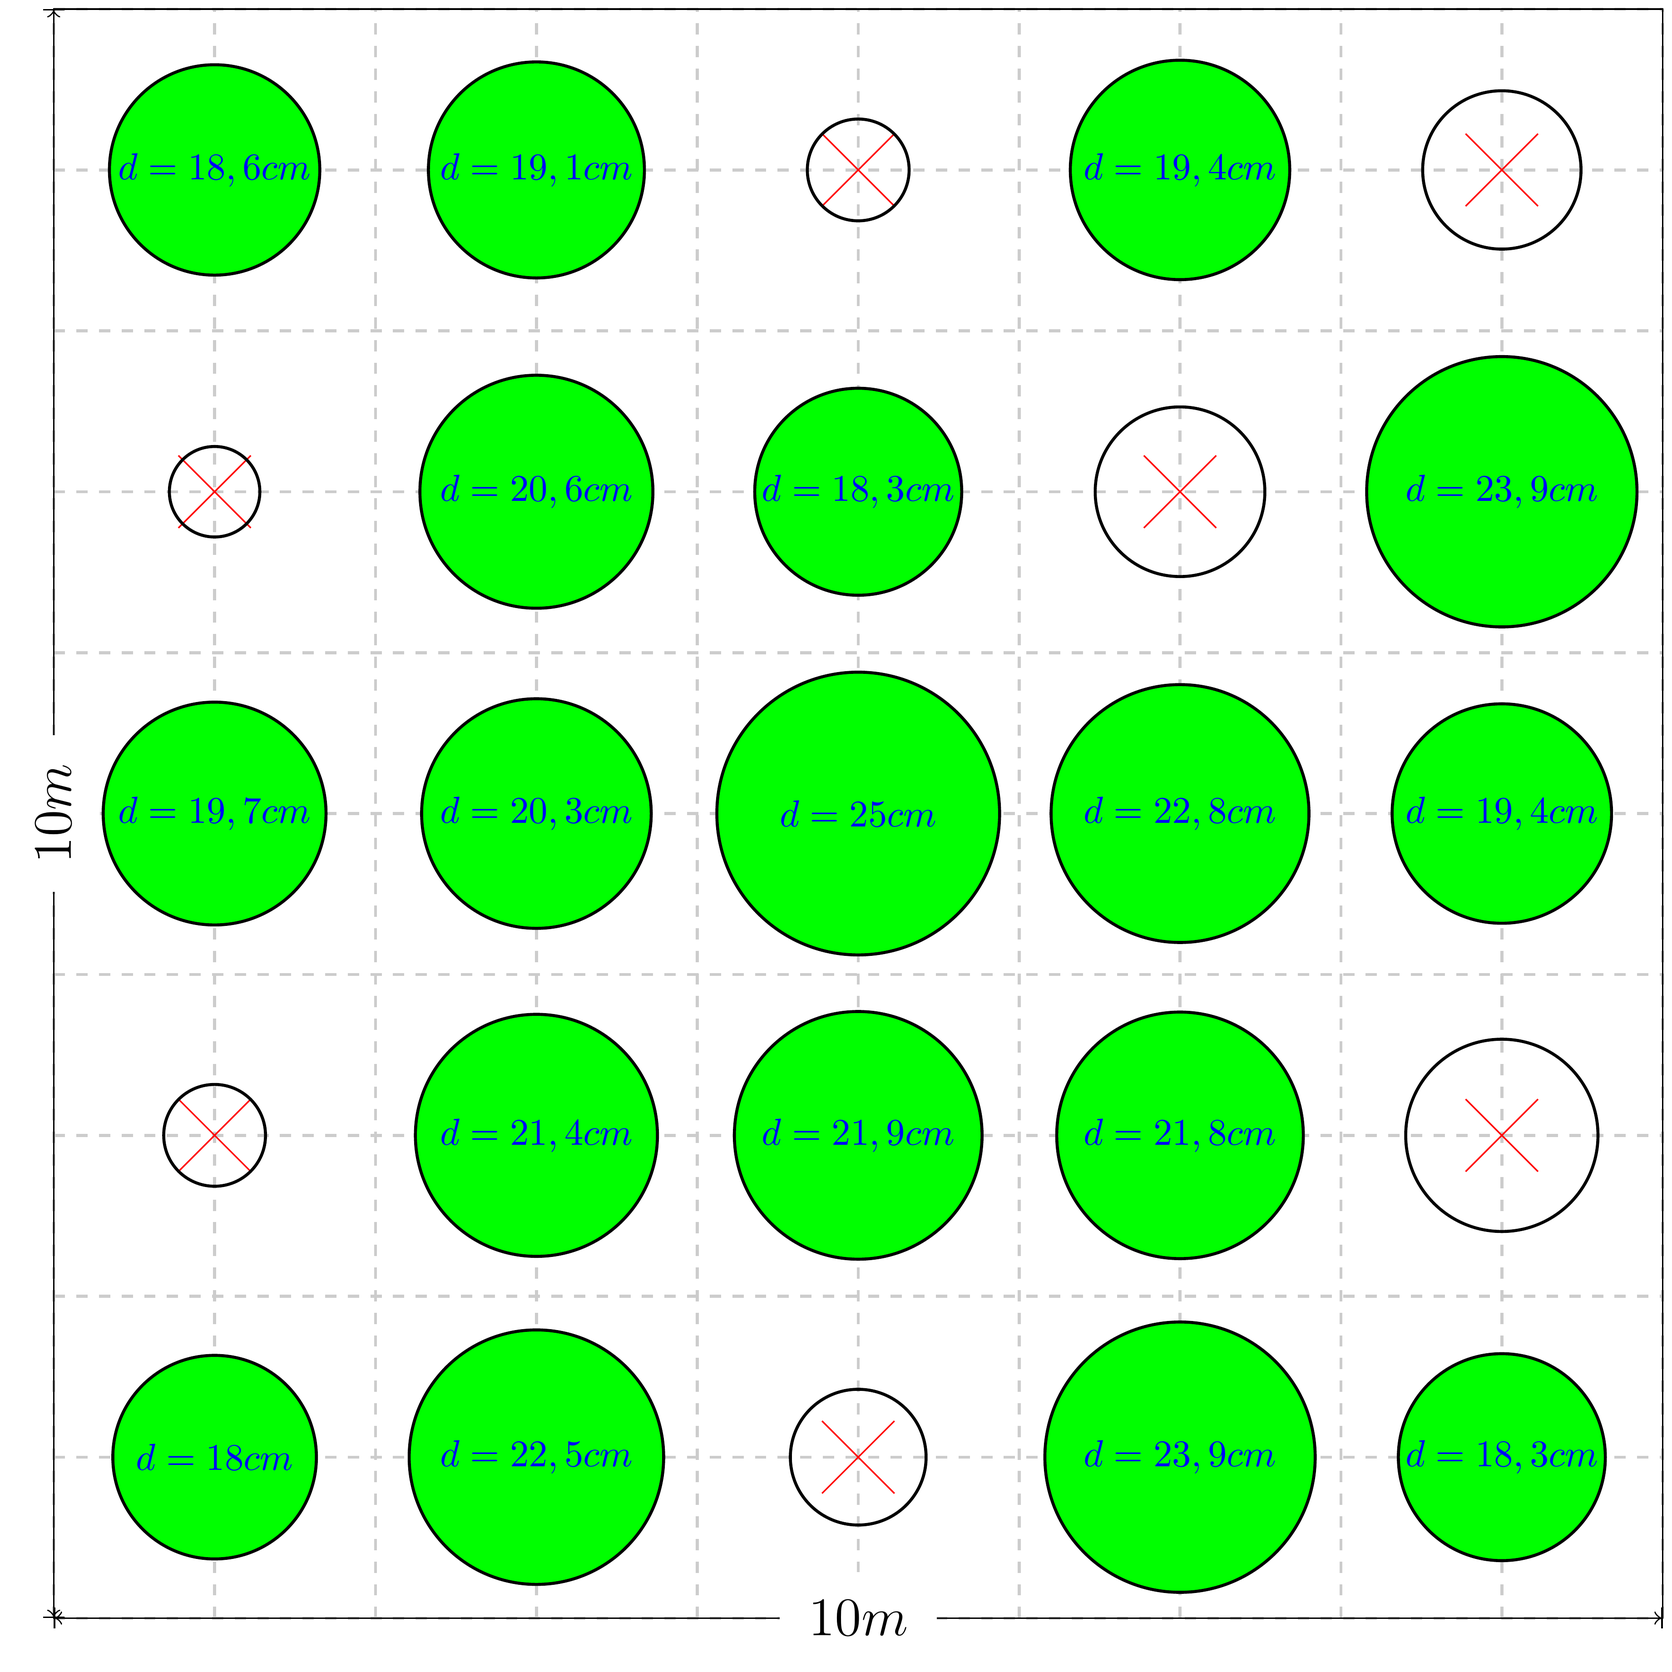
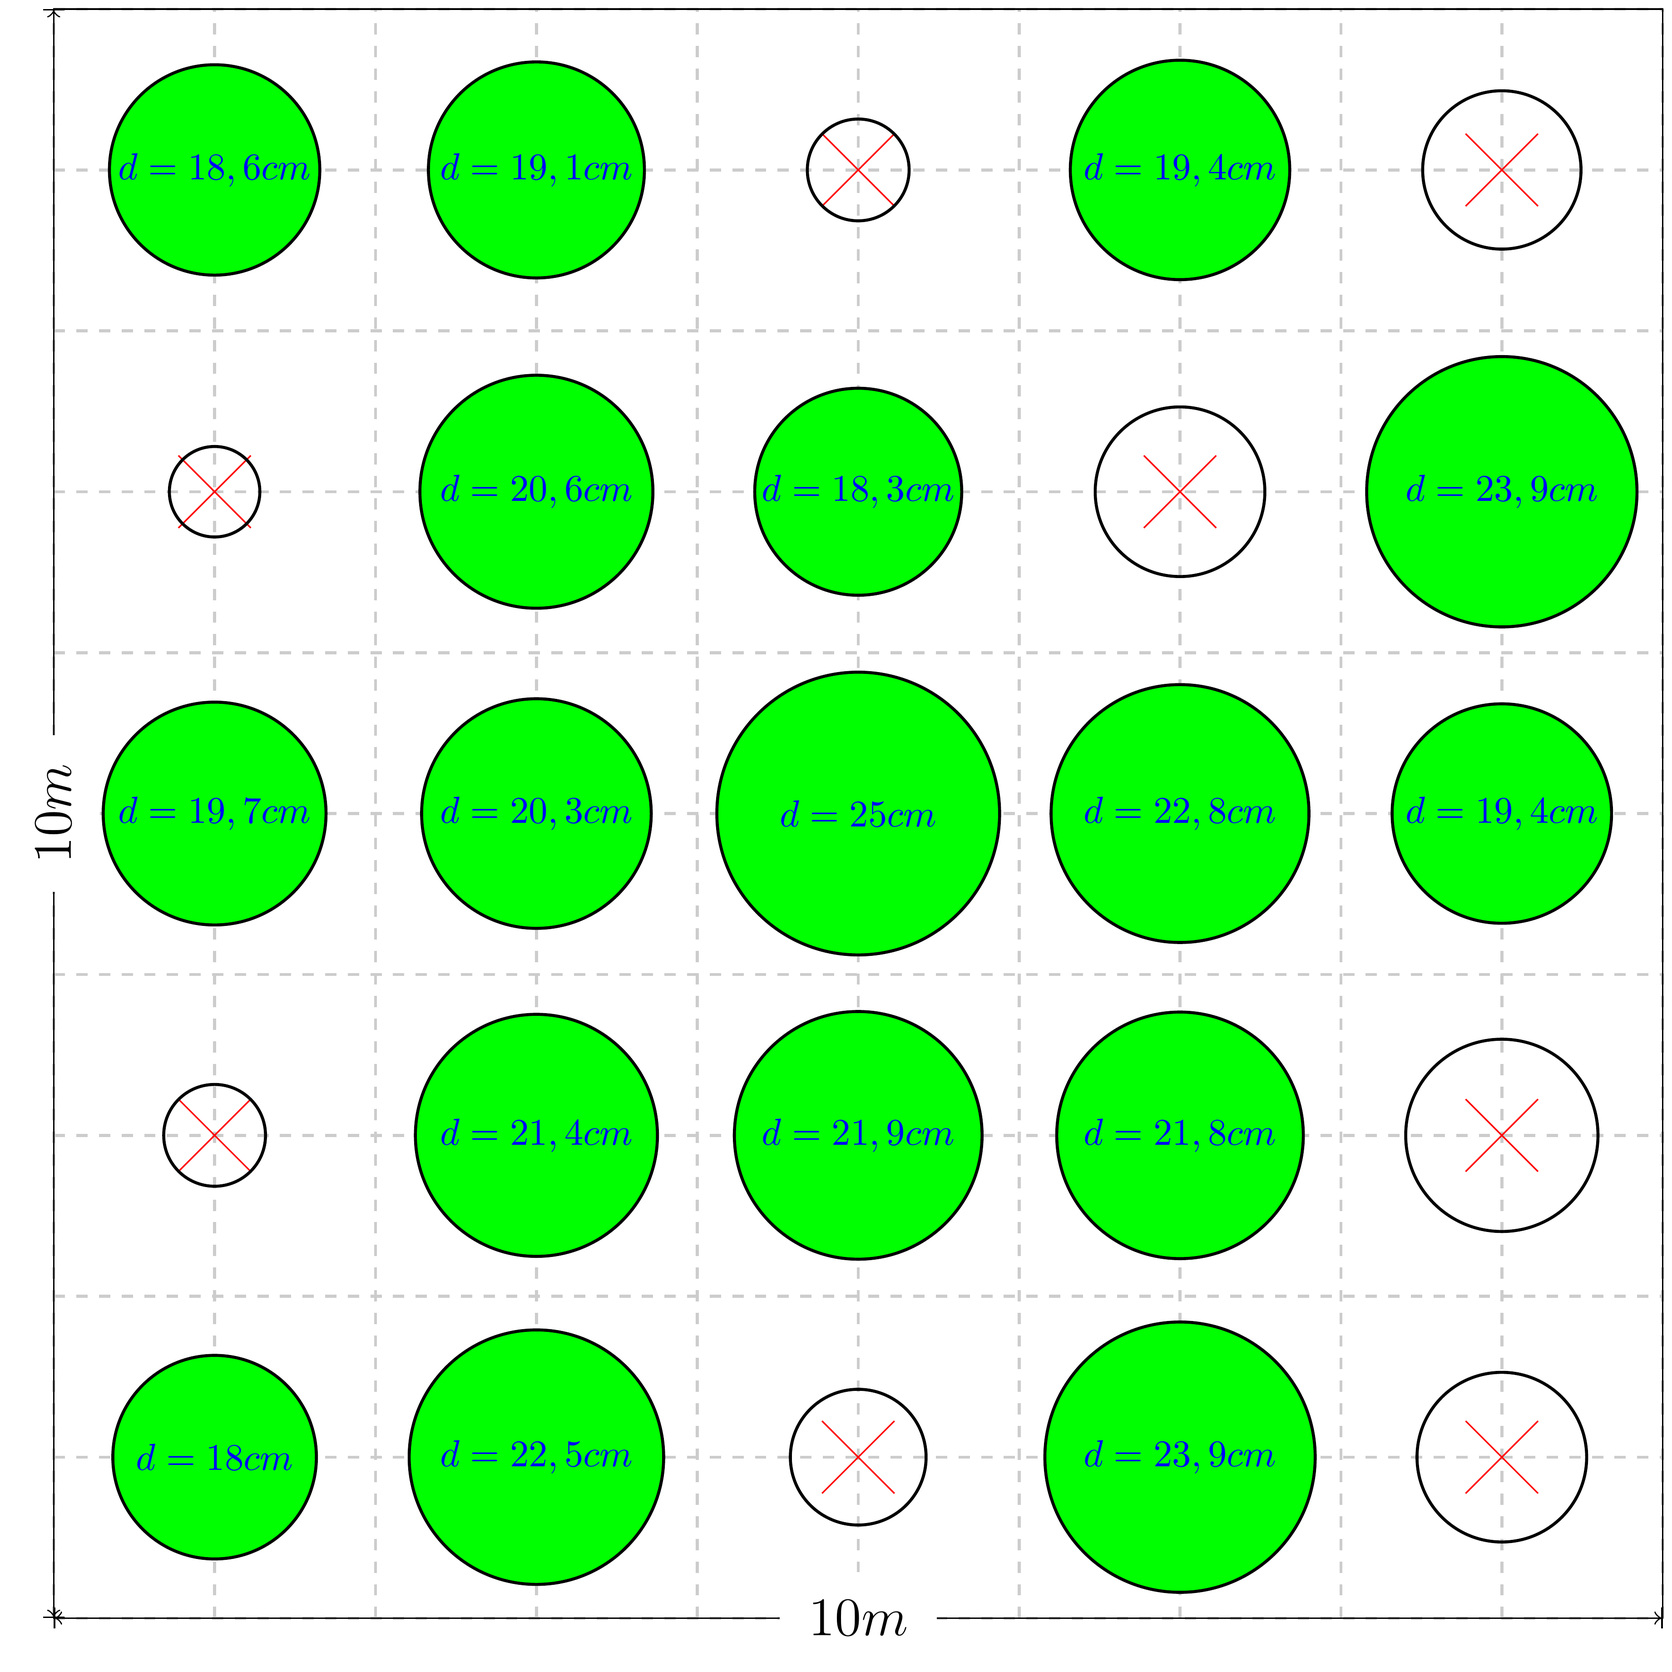
Update class 2

Changed region(s): [[0.8121, 0.8121, 0.9682, 0.937]]

diff --git a/Slides/Aula2-Diametro.html b/Slides/Aula2-Diametro.html
@@ -362,8 +362,8 @@ $$
 --
 
 .pull-left-2[
-<div id="htmlwidget-a53307848ddb515cdd6b" style="width:600px;height:360px;" class="plotly html-widget"></div>
-<script type="application/json" data-for="htmlwidget-a53307848ddb515cdd6b">{"x":{"data":[{"orientation":"v","width":[10,10,10,10,10,10,10,10,10],"base":[0,0,0,0,0,0,0,0,0],"x":[35,45,55,65,75,85,95,105,115],"y":[37,947,924,420,202,59,20,6,2],"text":["Count: 37<br />Lower: 30<br />Mids: 35<br />Upper: 40","Count: 947<br />Lower: 40<br />Mids: 45<br />Upper: 50","Count: 924<br />Lower: 50<br />Mids: 55<br />Upper: 60","Count: 420<br />Lower: 60<br />Mids: 65<br />Upper: 70","Count: 202<br />Lower: 70<br />Mids: 75<br />Upper: 80","Count: 59<br />Lower: 80<br />Mids: 85<br />Upper: 90","Count: 20<br />Lower: 90<br />Mids: 95<br />Upper: 100","Count: 6<br />Lower: 100<br />Mids: 105<br />Upper: 110","Count: 2<br />Lower: 110<br />Mids: 115<br />Upper: 120"],"type":"bar","marker":{"autocolorscale":false,"color":"rgba(0,255,0,0.2)","line":{"width":1.88976377952756,"color":"rgba(255,0,0,1)"}},"showlegend":false,"xaxis":"x","yaxis":"y","hoverinfo":"text","frame":null},{"text":["Count: 37<br />Lower: 30<br />Mids: 35<br />Upper: 40","Count: 947<br />Lower: 40<br />Mids: 45<br />Upper: 50","Count: 924<br />Lower: 50<br />Mids: 55<br />Upper: 60","Count: 420<br />Lower: 60<br />Mids: 65<br />Upper: 70","Count: 202<br />Lower: 70<br />Mids: 75<br />Upper: 80","Count: 59<br />Lower: 80<br />Mids: 85<br />Upper: 90","Count: 20<br />Lower: 90<br />Mids: 95<br />Upper: 100","Count: 6<br />Lower: 100<br />Mids: 105<br />Upper: 110","Count: 2<br />Lower: 110<br />Mids: 115<br />Upper: 120"],"hoverinfo":"text","xaxis":"x","yaxis":"y","frame":null},{"text":["Count: 37<br />Lower: 30<br />Mids: 35<br />Upper: 40","Count: 947<br />Lower: 40<br />Mids: 45<br />Upper: 50","Count: 924<br />Lower: 50<br />Mids: 55<br />Upper: 60","Count: 420<br />Lower: 60<br />Mids: 65<br />Upper: 70","Count: 202<br />Lower: 70<br />Mids: 75<br />Upper: 80","Count: 59<br />Lower: 80<br />Mids: 85<br />Upper: 90","Count: 20<br />Lower: 90<br />Mids: 95<br />Upper: 100","Count: 6<br />Lower: 100<br />Mids: 105<br />Upper: 110","Count: 2<br />Lower: 110<br />Mids: 115<br />Upper: 120"],"hoverinfo":"text","xaxis":"x","yaxis":"y","frame":null},{"text":["Count: 37<br />Lower: 30<br />Mids: 35<br />Upper: 40","Count: 947<br />Lower: 40<br />Mids: 45<br />Upper: 50","Count: 924<br />Lower: 50<br />Mids: 55<br />Upper: 60","Count: 420<br />Lower: 60<br />Mids: 65<br />Upper: 70","Count: 202<br />Lower: 70<br />Mids: 75<br />Upper: 80","Count: 59<br />Lower: 80<br />Mids: 85<br />Upper: 90","Count: 20<br />Lower: 90<br />Mids: 95<br />Upper: 100","Count: 6<br />Lower: 100<br />Mids: 105<br />Upper: 110","Count: 2<br />Lower: 110<br />Mids: 115<br />Upper: 120"],"hoverinfo":"text","xaxis":"x","yaxis":"y","frame":null}],"layout":{"margin":{"t":45.7108066971081,"r":7.30593607305936,"b":42.130898021309,"l":48.9497716894977},"plot_bgcolor":"rgba(255,255,255,1)","paper_bgcolor":"rgba(255,255,255,1)","font":{"color":"rgba(0,0,0,1)","family":"","size":14.6118721461187},"title":{"text":"Distribuição Diamétrica <br />(Vouacapoua americana Aubl.)","font":{"color":"rgba(0,0,0,1)","family":"","size":17.5342465753425},"x":0,"xref":"paper"},"xaxis":{"domain":[0,1],"automargin":true,"type":"linear","autorange":false,"range":[25.5,124.5],"tickmode":"array","ticktext":["30","40","50","60","70","80","90","100","110","120"],"tickvals":[30,40,50,60,70,80,90,100,110,120],"categoryorder":"array","categoryarray":["30","40","50","60","70","80","90","100","110","120"],"nticks":null,"ticks":"outside","tickcolor":"rgba(51,51,51,1)","ticklen":3.65296803652968,"tickwidth":0.66417600664176,"showticklabels":true,"tickfont":{"color":"rgba(77,77,77,1)","family":"","size":11.689497716895},"tickangle":-0,"showline":false,"linecolor":null,"linewidth":0,"showgrid":true,"gridcolor":"rgba(235,235,235,1)","gridwidth":0.66417600664176,"zeroline":false,"anchor":"y","title":{"text":"Classes de Diâmetro","font":{"color":"rgba(0,0,0,1)","family":"","size":14.6118721461187}},"hoverformat":".2f"},"yaxis":{"domain":[0,1],"automargin":true,"type":"linear","autorange":false,"range":[-50,1050],"tickmode":"array","ticktext":["0","100","200","300","400","500","600","700","800","900","1000"],"tickvals":[0,100,200,300,400,500,600,700,800,900,1000],"categoryorder":"array","categoryarray":["0","100","200","300","400","500","600","700","800","900","1000"],"nticks":null,"ticks":"outside","tickcolor":"rgba(51,51,51,1)","ticklen":3.65296803652968,"tickwidth":0.66417600664176,"showticklabels":true,"tickfont":{"color":"rgba(77,77,77,1)","family":"","size":11.689497716895},"tickangle":-0,"showline":false,"linecolor":null,"linewidth":0,"showgrid":true,"gridcolor":"rgba(235,235,235,1)","gridwidth":0.66417600664176,"zeroline":false,"anchor":"x","title":{"text":"Número de Indivíduos","font":{"color":"rgba(0,0,0,1)","family":"","size":14.6118721461187}},"hoverformat":".2f"},"shapes":[{"type":"rect","fillcolor":"transparent","line":{"color":"rgba(0,0,0,1)","width":0.66417600664176,"linetype":"solid"},"yref":"paper","xref":"paper","x0":0,"x1":1,"y0":0,"y1":1}],"showlegend":false,"legend":{"bgcolor":"rgba(255,255,255,1)","bordercolor":"transparent","borderwidth":1.88976377952756,"font":{"color":"rgba(0,0,0,1)","family":"","size":11.689497716895}},"hovermode":"closest","barmode":"relative"},"config":{"doubleClick":"reset","showSendToCloud":false},"source":"A","attrs":{"60813d508f9f":{"x":{},"type":"bar"}},"cur_data":"60813d508f9f","visdat":{"60813d508f9f":["function (y) ","x"]},"highlight":{"on":"plotly_click","persistent":false,"dynamic":false,"selectize":false,"opacityDim":0.2,"selected":{"opacity":1},"debounce":0},"shinyEvents":["plotly_hover","plotly_click","plotly_selected","plotly_relayout","plotly_brushed","plotly_brushing","plotly_clickannotation","plotly_doubleclick","plotly_deselect","plotly_afterplot","plotly_sunburstclick"],"base_url":"https://plot.ly"},"evals":[],"jsHooks":[]}</script>
+<div id="htmlwidget-fc676dc1031a047a59b0" style="width:600px;height:360px;" class="plotly html-widget"></div>
+<script type="application/json" data-for="htmlwidget-fc676dc1031a047a59b0">{"x":{"data":[{"orientation":"v","width":[10,10,10,10,10,10,10,10,10],"base":[0,0,0,0,0,0,0,0,0],"x":[35,45,55,65,75,85,95,105,115],"y":[37,947,924,420,202,59,20,6,2],"text":["Count: 37<br />Lower: 30<br />Mids: 35<br />Upper: 40","Count: 947<br />Lower: 40<br />Mids: 45<br />Upper: 50","Count: 924<br />Lower: 50<br />Mids: 55<br />Upper: 60","Count: 420<br />Lower: 60<br />Mids: 65<br />Upper: 70","Count: 202<br />Lower: 70<br />Mids: 75<br />Upper: 80","Count: 59<br />Lower: 80<br />Mids: 85<br />Upper: 90","Count: 20<br />Lower: 90<br />Mids: 95<br />Upper: 100","Count: 6<br />Lower: 100<br />Mids: 105<br />Upper: 110","Count: 2<br />Lower: 110<br />Mids: 115<br />Upper: 120"],"type":"bar","marker":{"autocolorscale":false,"color":"rgba(0,255,0,0.2)","line":{"width":1.88976377952756,"color":"rgba(255,0,0,1)"}},"showlegend":false,"xaxis":"x","yaxis":"y","hoverinfo":"text","frame":null},{"text":["Count: 37<br />Lower: 30<br />Mids: 35<br />Upper: 40","Count: 947<br />Lower: 40<br />Mids: 45<br />Upper: 50","Count: 924<br />Lower: 50<br />Mids: 55<br />Upper: 60","Count: 420<br />Lower: 60<br />Mids: 65<br />Upper: 70","Count: 202<br />Lower: 70<br />Mids: 75<br />Upper: 80","Count: 59<br />Lower: 80<br />Mids: 85<br />Upper: 90","Count: 20<br />Lower: 90<br />Mids: 95<br />Upper: 100","Count: 6<br />Lower: 100<br />Mids: 105<br />Upper: 110","Count: 2<br />Lower: 110<br />Mids: 115<br />Upper: 120"],"hoverinfo":"text","xaxis":"x","yaxis":"y","frame":null},{"text":["Count: 37<br />Lower: 30<br />Mids: 35<br />Upper: 40","Count: 947<br />Lower: 40<br />Mids: 45<br />Upper: 50","Count: 924<br />Lower: 50<br />Mids: 55<br />Upper: 60","Count: 420<br />Lower: 60<br />Mids: 65<br />Upper: 70","Count: 202<br />Lower: 70<br />Mids: 75<br />Upper: 80","Count: 59<br />Lower: 80<br />Mids: 85<br />Upper: 90","Count: 20<br />Lower: 90<br />Mids: 95<br />Upper: 100","Count: 6<br />Lower: 100<br />Mids: 105<br />Upper: 110","Count: 2<br />Lower: 110<br />Mids: 115<br />Upper: 120"],"hoverinfo":"text","xaxis":"x","yaxis":"y","frame":null},{"text":["Count: 37<br />Lower: 30<br />Mids: 35<br />Upper: 40","Count: 947<br />Lower: 40<br />Mids: 45<br />Upper: 50","Count: 924<br />Lower: 50<br />Mids: 55<br />Upper: 60","Count: 420<br />Lower: 60<br />Mids: 65<br />Upper: 70","Count: 202<br />Lower: 70<br />Mids: 75<br />Upper: 80","Count: 59<br />Lower: 80<br />Mids: 85<br />Upper: 90","Count: 20<br />Lower: 90<br />Mids: 95<br />Upper: 100","Count: 6<br />Lower: 100<br />Mids: 105<br />Upper: 110","Count: 2<br />Lower: 110<br />Mids: 115<br />Upper: 120"],"hoverinfo":"text","xaxis":"x","yaxis":"y","frame":null}],"layout":{"margin":{"t":45.7108066971081,"r":7.30593607305936,"b":42.130898021309,"l":48.9497716894977},"plot_bgcolor":"rgba(255,255,255,1)","paper_bgcolor":"rgba(255,255,255,1)","font":{"color":"rgba(0,0,0,1)","family":"","size":14.6118721461187},"title":{"text":"Distribuição Diamétrica <br />(Vouacapoua americana Aubl.)","font":{"color":"rgba(0,0,0,1)","family":"","size":17.5342465753425},"x":0,"xref":"paper"},"xaxis":{"domain":[0,1],"automargin":true,"type":"linear","autorange":false,"range":[25.5,124.5],"tickmode":"array","ticktext":["30","40","50","60","70","80","90","100","110","120"],"tickvals":[30,40,50,60,70,80,90,100,110,120],"categoryorder":"array","categoryarray":["30","40","50","60","70","80","90","100","110","120"],"nticks":null,"ticks":"outside","tickcolor":"rgba(51,51,51,1)","ticklen":3.65296803652968,"tickwidth":0.66417600664176,"showticklabels":true,"tickfont":{"color":"rgba(77,77,77,1)","family":"","size":11.689497716895},"tickangle":-0,"showline":false,"linecolor":null,"linewidth":0,"showgrid":true,"gridcolor":"rgba(235,235,235,1)","gridwidth":0.66417600664176,"zeroline":false,"anchor":"y","title":{"text":"Classes de Diâmetro","font":{"color":"rgba(0,0,0,1)","family":"","size":14.6118721461187}},"hoverformat":".2f"},"yaxis":{"domain":[0,1],"automargin":true,"type":"linear","autorange":false,"range":[-50,1050],"tickmode":"array","ticktext":["0","100","200","300","400","500","600","700","800","900","1000"],"tickvals":[0,100,200,300,400,500,600,700,800,900,1000],"categoryorder":"array","categoryarray":["0","100","200","300","400","500","600","700","800","900","1000"],"nticks":null,"ticks":"outside","tickcolor":"rgba(51,51,51,1)","ticklen":3.65296803652968,"tickwidth":0.66417600664176,"showticklabels":true,"tickfont":{"color":"rgba(77,77,77,1)","family":"","size":11.689497716895},"tickangle":-0,"showline":false,"linecolor":null,"linewidth":0,"showgrid":true,"gridcolor":"rgba(235,235,235,1)","gridwidth":0.66417600664176,"zeroline":false,"anchor":"x","title":{"text":"Número de Indivíduos","font":{"color":"rgba(0,0,0,1)","family":"","size":14.6118721461187}},"hoverformat":".2f"},"shapes":[{"type":"rect","fillcolor":"transparent","line":{"color":"rgba(0,0,0,1)","width":0.66417600664176,"linetype":"solid"},"yref":"paper","xref":"paper","x0":0,"x1":1,"y0":0,"y1":1}],"showlegend":false,"legend":{"bgcolor":"rgba(255,255,255,1)","bordercolor":"transparent","borderwidth":1.88976377952756,"font":{"color":"rgba(0,0,0,1)","family":"","size":11.689497716895}},"hovermode":"closest","barmode":"relative"},"config":{"doubleClick":"reset","showSendToCloud":false},"source":"A","attrs":{"12ad4236f0c2":{"x":{},"type":"bar"}},"cur_data":"12ad4236f0c2","visdat":{"12ad4236f0c2":["function (y) ","x"]},"highlight":{"on":"plotly_click","persistent":false,"dynamic":false,"selectize":false,"opacityDim":0.2,"selected":{"opacity":1},"debounce":0},"shinyEvents":["plotly_hover","plotly_click","plotly_selected","plotly_relayout","plotly_brushed","plotly_brushing","plotly_clickannotation","plotly_doubleclick","plotly_deselect","plotly_afterplot","plotly_sunburstclick"],"base_url":"https://plot.ly"},"evals":[],"jsHooks":[]}</script>
 
 ]
 
@@ -1491,7 +1491,8 @@ $$
 .shadow1[
 ### Área Transversal - Cálculo
 .font90[
-- **Exemplo 1**: Considere que em uma parcela quadrada de `\(10m\)` x `\(10m\)` ( `\(100 m^2\)` ) estabelecida em um povoamento de *Tectona grandis* foram medidos os diâmetros a 1,30m do solo, em cm, de todas as árvores. 
+- **Exemplo 1**: Uma parcela quadrada de `\(10m\)` x `\(10m\)` ( `\(100 m^2\)` ) foi instalada em um povoamento de *Tectona grandis* (espaçamento `\(2m\)` x `\(2m\)`), e em seguida foram medidos os diâmetros a 1,30m do solo, em cm, de todas as árvores vivas. &lt;br&gt;
+
 **Pergunta-se**: .blue[Qual a área transversal, em metros quadrados, de cada árvore?]
 ]
 ]
@@ -1501,7 +1502,7 @@ $$
 
 .pull-right-4[
 &lt;img src="fig/class2/gp.png" width="95%" style="display: block; margin: auto;" /&gt;
-.font80[**Fonte:** O autor. Círculos com .red["X"]: árvores mortas.]
+.font80[**Fonte:** O autor. Círculos com .red["X"] são árvores mortas.]
 
 ]
 
@@ -1511,8 +1512,8 @@ $$
 ## Relação Diâmetro e Área Transversal
 
 .left-column[
-<div id="htmlwidget-ad98892e20c0138b06de" style="width:450px;height:auto;" class="datatables html-widget"></div>
-<script type="application/json" data-for="htmlwidget-ad98892e20c0138b06de">{"x":{"filter":"none","vertical":false,"caption":"<caption><\/caption>","editable":{"target":"cell","disable":{"columns":null},"numeric":[0,1],"area":[]},"data":[[1,2,3,4,5,6,7,8,9,10,11,12,13,14,15,16,17,18],[18,19.7,18.6,19.1,20.6,20.3,21.4,22.5,21.9,25,18.3,19.4,22.8,21.8,23.9,18.3,19.4,23.9],[null,null,null,null,null,null,null,null,null,null,null,null,null,null,null,null,null,null]],"container":"<table class=\"display\">\n  <thead>\n    <tr>\n      <th>Arvore<\/th>\n      <th>d<\/th>\n      <th>g<\/th>\n    <\/tr>\n  <\/thead>\n<\/table>","options":{"pageLength":18,"dom":"t","autoWidth":false,"columnDefs":[{"className":"dt-center","targets":"_all"}],"initComplete":"function(settings, json) {\n$(this.api().table().container()).css({'font-size': '8pt'});\n}","order":[],"orderClasses":false,"lengthMenu":[10,18,25,50,100]}},"evals":["options.initComplete"],"jsHooks":[]}</script>
+<div id="htmlwidget-44b30431b970cad4344b" style="width:450px;height:auto;" class="datatables html-widget"></div>
+<script type="application/json" data-for="htmlwidget-44b30431b970cad4344b">{"x":{"filter":"none","vertical":false,"caption":"<caption><\/caption>","editable":{"target":"cell","disable":{"columns":null},"numeric":[0,1],"area":[]},"data":[[1,2,3,4,5,6,7,8,9,10,11,12,13,14,15,16,17],[18,19.7,18.6,19.1,20.6,20.3,21.4,22.5,21.9,25,18.3,19.4,22.8,21.8,23.9,19.4,23.9],[null,null,null,null,null,null,null,null,null,null,null,null,null,null,null,null,null]],"container":"<table class=\"display\">\n  <thead>\n    <tr>\n      <th>Arvore<\/th>\n      <th>d<\/th>\n      <th>g<\/th>\n    <\/tr>\n  <\/thead>\n<\/table>","options":{"pageLength":18,"dom":"t","autoWidth":false,"columnDefs":[{"className":"dt-center","targets":"_all"}],"initComplete":"function(settings, json) {\n$(this.api().table().container()).css({'font-size': '8pt'});\n}","order":[],"orderClasses":false,"lengthMenu":[10,18,25,50,100]}},"evals":["options.initComplete"],"jsHooks":[]}</script>
 
 ]
 
@@ -1552,8 +1553,8 @@ $$
 ## Relação Diâmetro e Área Transversal
 
 .left-column[
-<div id="htmlwidget-0e94fa510da31aacf195" style="width:450px;height:auto;" class="datatables html-widget"></div>
-<script type="application/json" data-for="htmlwidget-0e94fa510da31aacf195">{"x":{"filter":"none","vertical":false,"caption":"<caption><\/caption>","editable":{"target":"cell","disable":{"columns":null},"numeric":[0,1,2],"area":[]},"data":[[1,2,3,4,5,6,7,8,9,10,11,12,13,14,15,16,17,18],[18,19.7,18.6,19.1,20.6,20.3,21.4,22.5,21.9,25,18.3,19.4,22.8,21.8,23.9,18.3,19.4,23.9],[0.0254,0.0305,0.0272,0.0287,0.0333,0.0324,0.036,0.0398,0.0377,0.0491,0.0263,0.0296,0.0408,0.0373,0.0449,0.0263,0.0296,0.0449]],"container":"<table class=\"display\">\n  <thead>\n    <tr>\n      <th>Arvore<\/th>\n      <th>d<\/th>\n      <th>g<\/th>\n    <\/tr>\n  <\/thead>\n<\/table>","options":{"pageLength":18,"dom":"t","autoWidth":false,"columnDefs":[{"className":"dt-center","targets":"_all"}],"initComplete":"function(settings, json) {\n$(this.api().table().container()).css({'font-size': '8pt'});\n}","order":[],"orderClasses":false,"lengthMenu":[10,18,25,50,100]}},"evals":["options.initComplete"],"jsHooks":[]}</script>
+<div id="htmlwidget-c878f1fa2263849a0c89" style="width:450px;height:auto;" class="datatables html-widget"></div>
+<script type="application/json" data-for="htmlwidget-c878f1fa2263849a0c89">{"x":{"filter":"none","vertical":false,"caption":"<caption><\/caption>","editable":{"target":"cell","disable":{"columns":null},"numeric":[0,1,2],"area":[]},"data":[[1,2,3,4,5,6,7,8,9,10,11,12,13,14,15,16,17],[18,19.7,18.6,19.1,20.6,20.3,21.4,22.5,21.9,25,18.3,19.4,22.8,21.8,23.9,19.4,23.9],[0.0254,0.0305,0.0272,0.0287,0.0333,0.0324,0.036,0.0398,0.0377,0.0491,0.0263,0.0296,0.0408,0.0373,0.0449,0.0296,0.0449]],"container":"<table class=\"display\">\n  <thead>\n    <tr>\n      <th>Arvore<\/th>\n      <th>d<\/th>\n      <th>g<\/th>\n    <\/tr>\n  <\/thead>\n<\/table>","options":{"pageLength":18,"dom":"t","autoWidth":false,"columnDefs":[{"className":"dt-center","targets":"_all"}],"initComplete":"function(settings, json) {\n$(this.api().table().container()).css({'font-size': '8pt'});\n}","order":[],"orderClasses":false,"lengthMenu":[10,18,25,50,100]}},"evals":["options.initComplete"],"jsHooks":[]}</script>
 ]
 
 .right-column[
